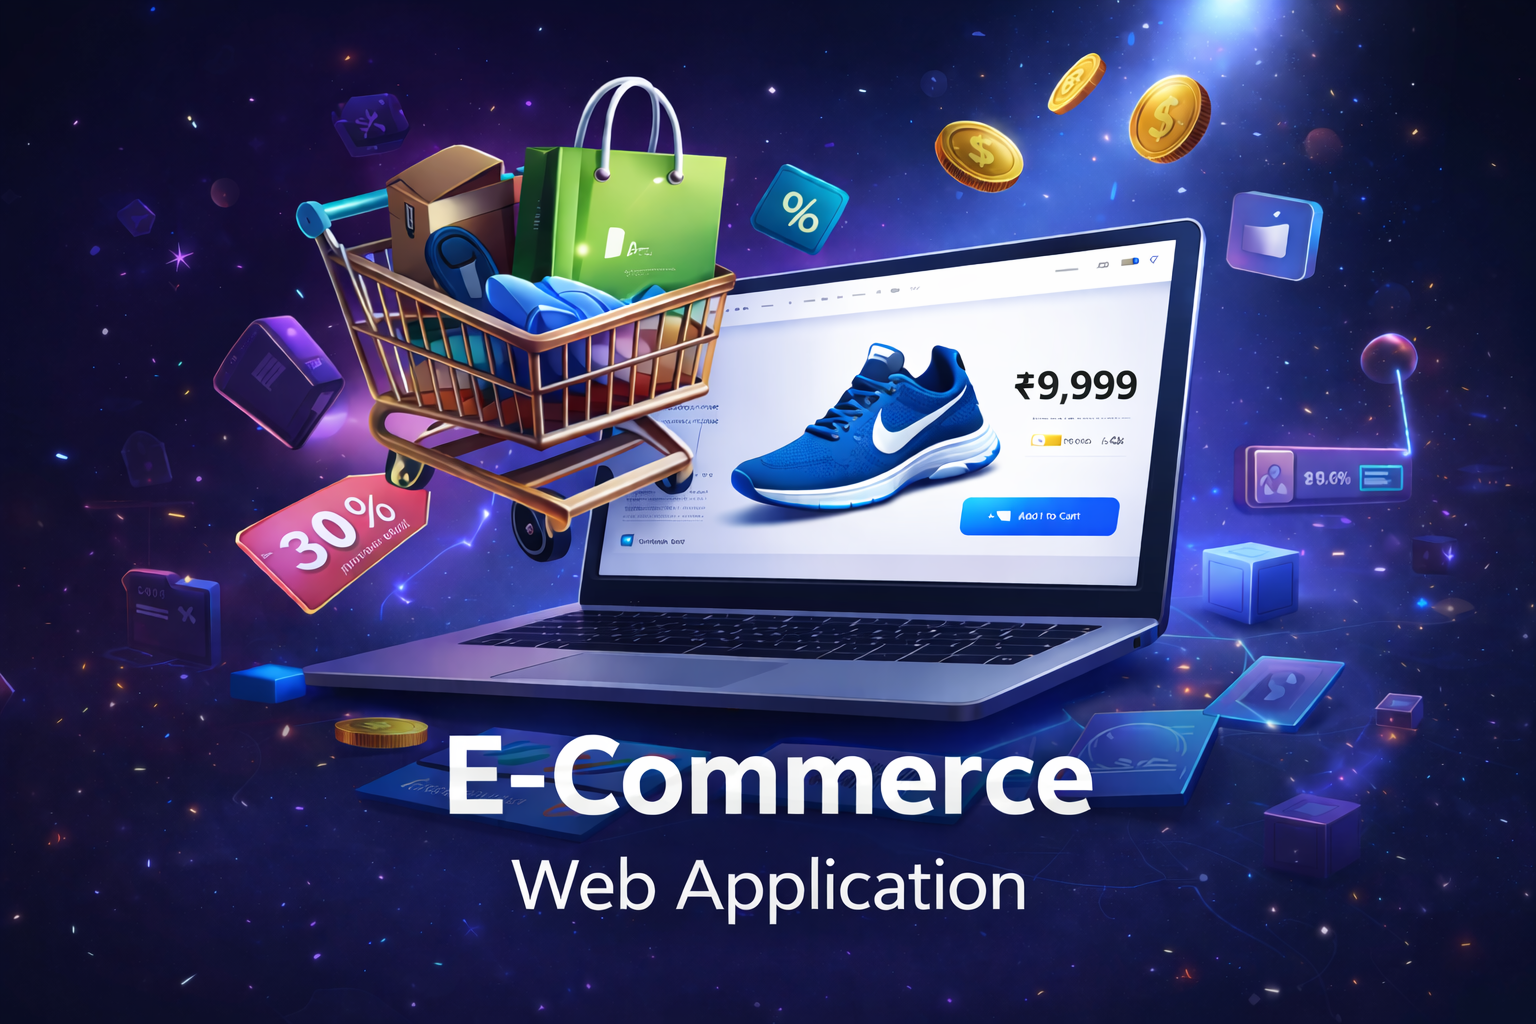
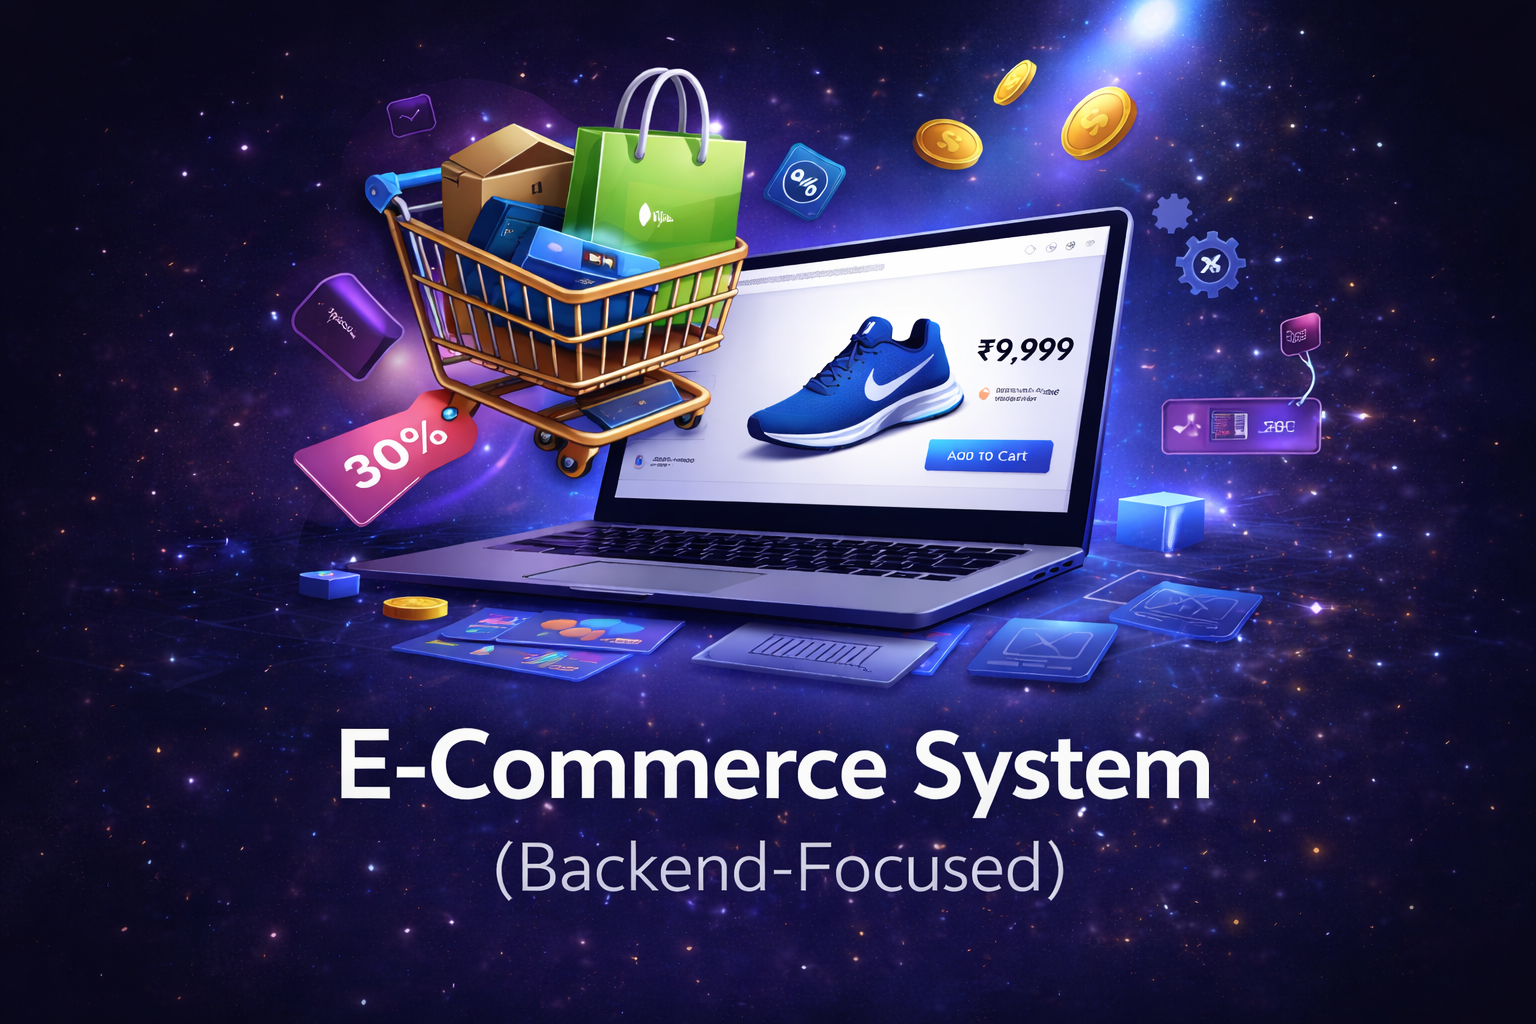
Update project title for E-Commerce Web Application to clarify focus; replace image file

diff --git a/src/sections/Projects.jsx b/src/sections/Projects.jsx
@@ -12,7 +12,7 @@ const projects = [
     github: 'https://github.com/Ashishjha013/Wanderlust',
   },
   {
-    title: 'E-Commerce Web Application',
+    title: 'E-Commerce Web Application (Backend-Focused)',
     description:
       'A full-stack e-commerce platform allowing users to browse products, manage carts, place orders, and authenticate securely.',
     image: '/projects/e-commerce.png',
